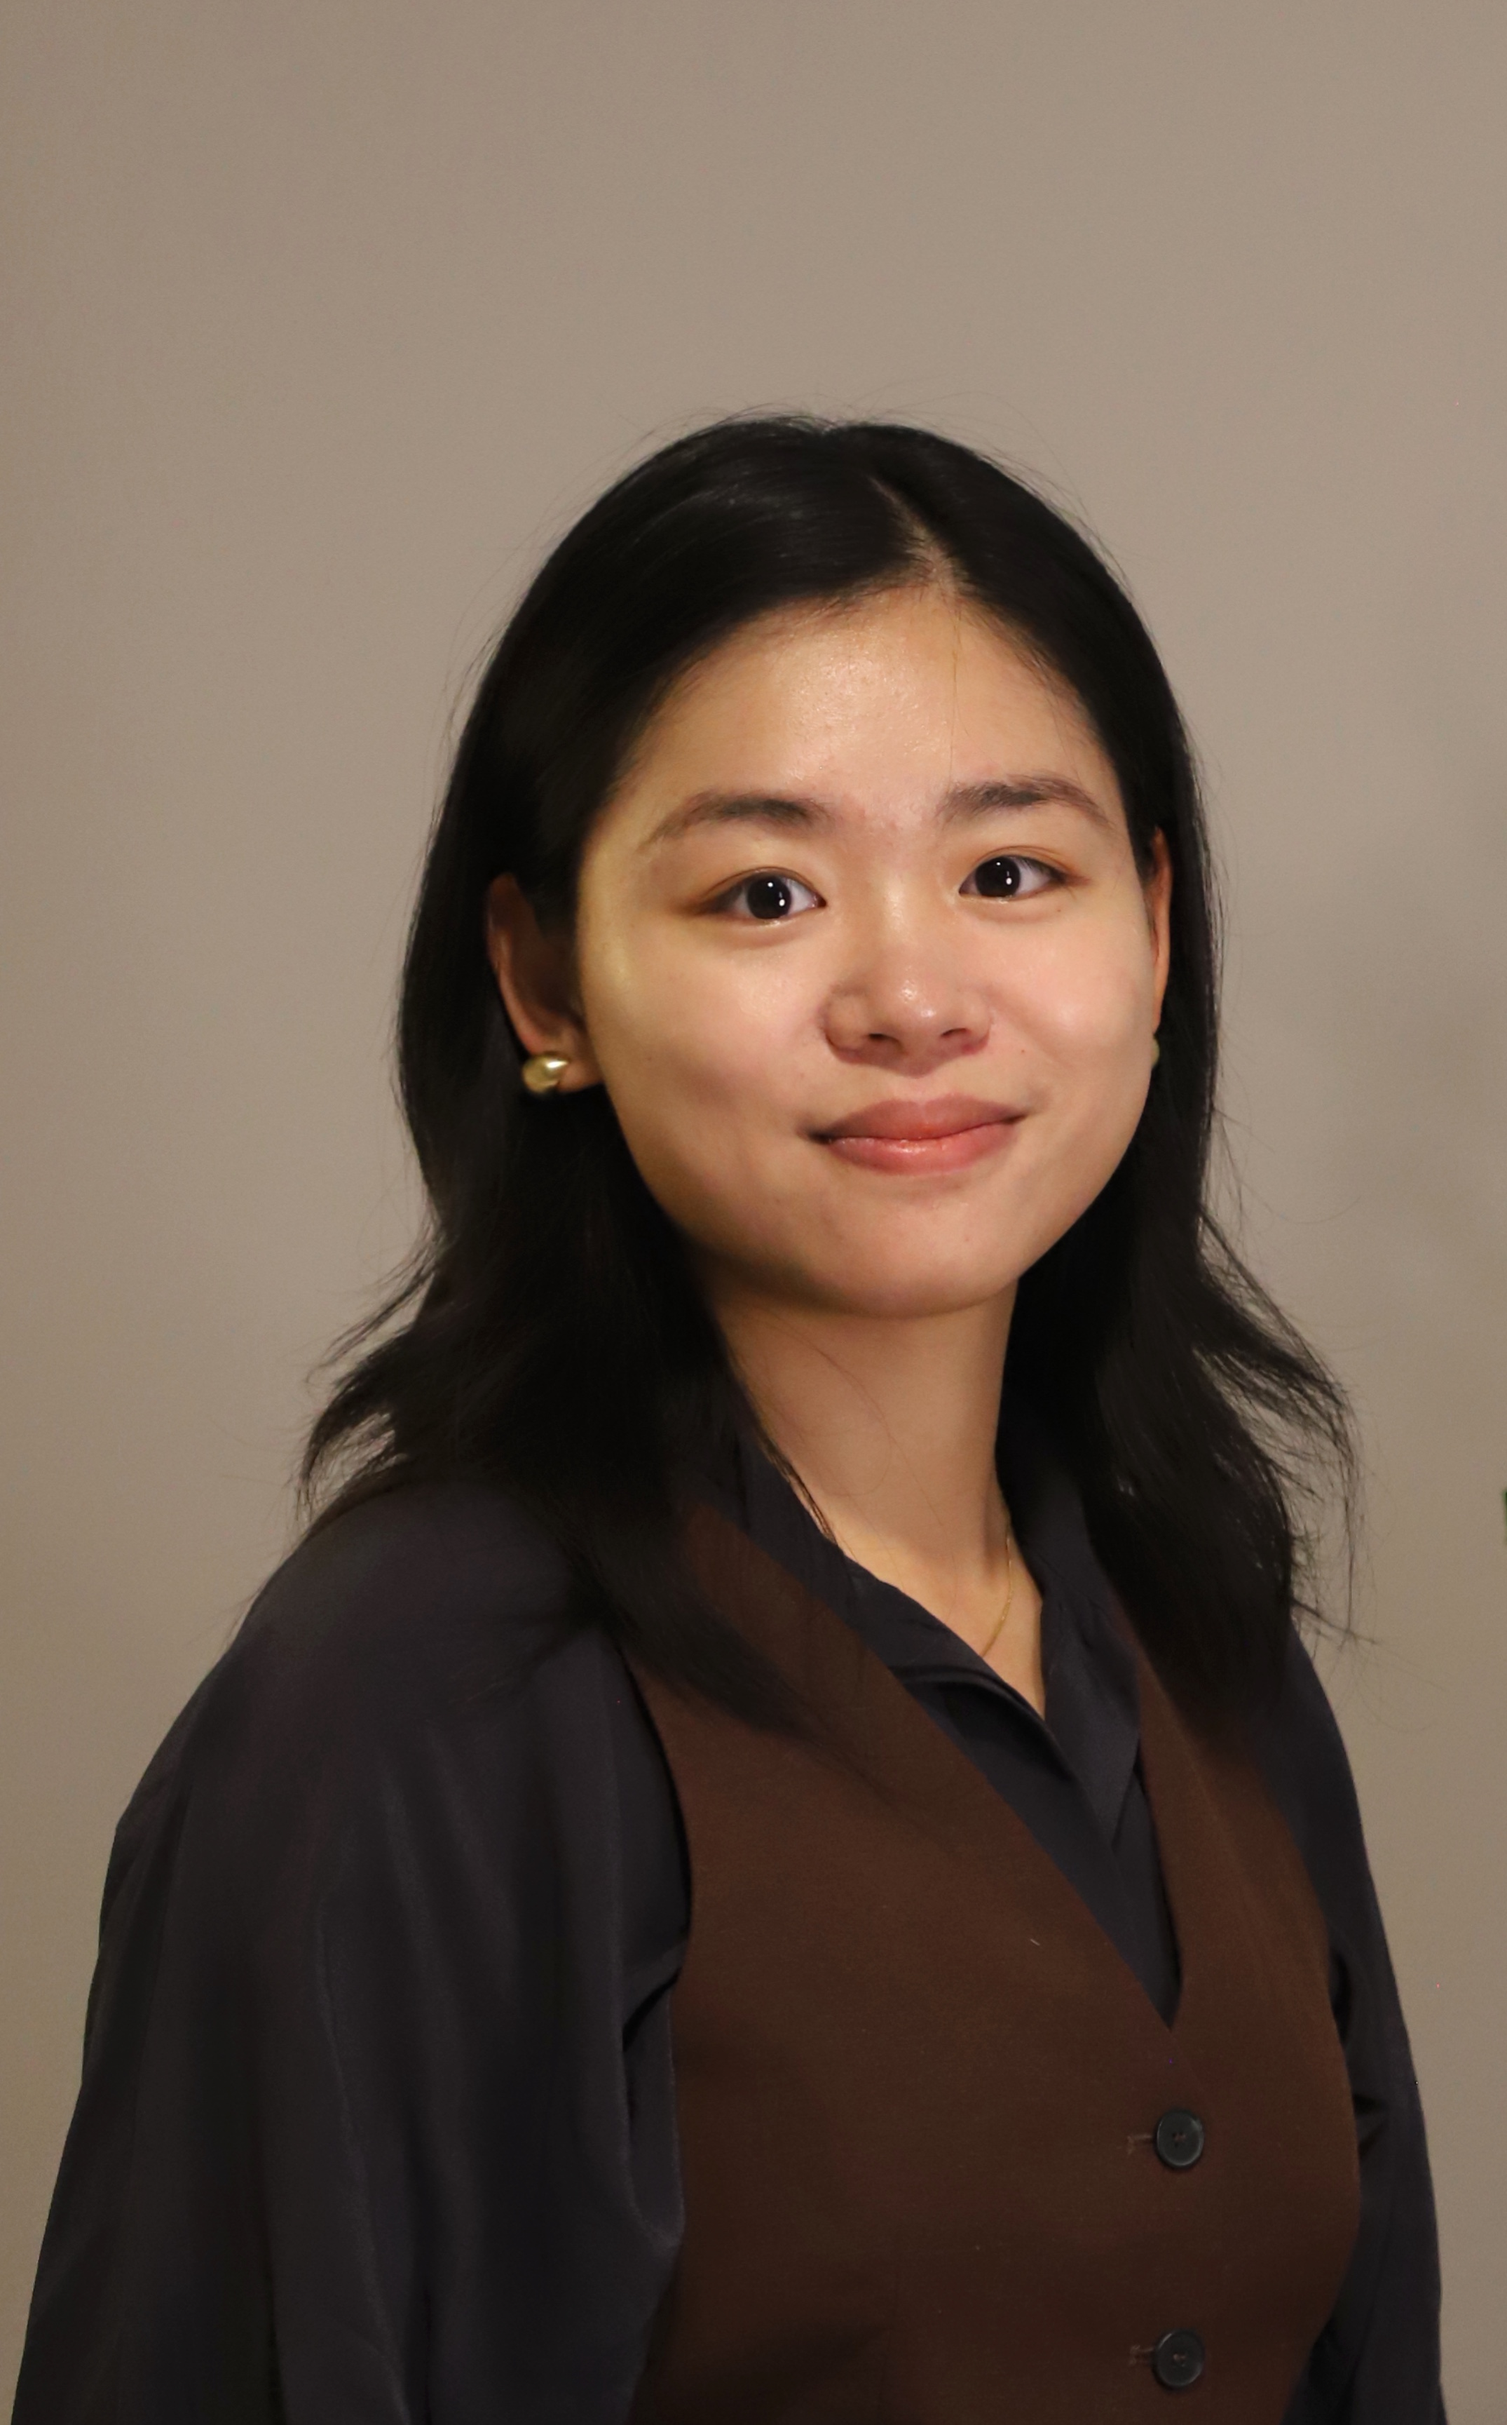
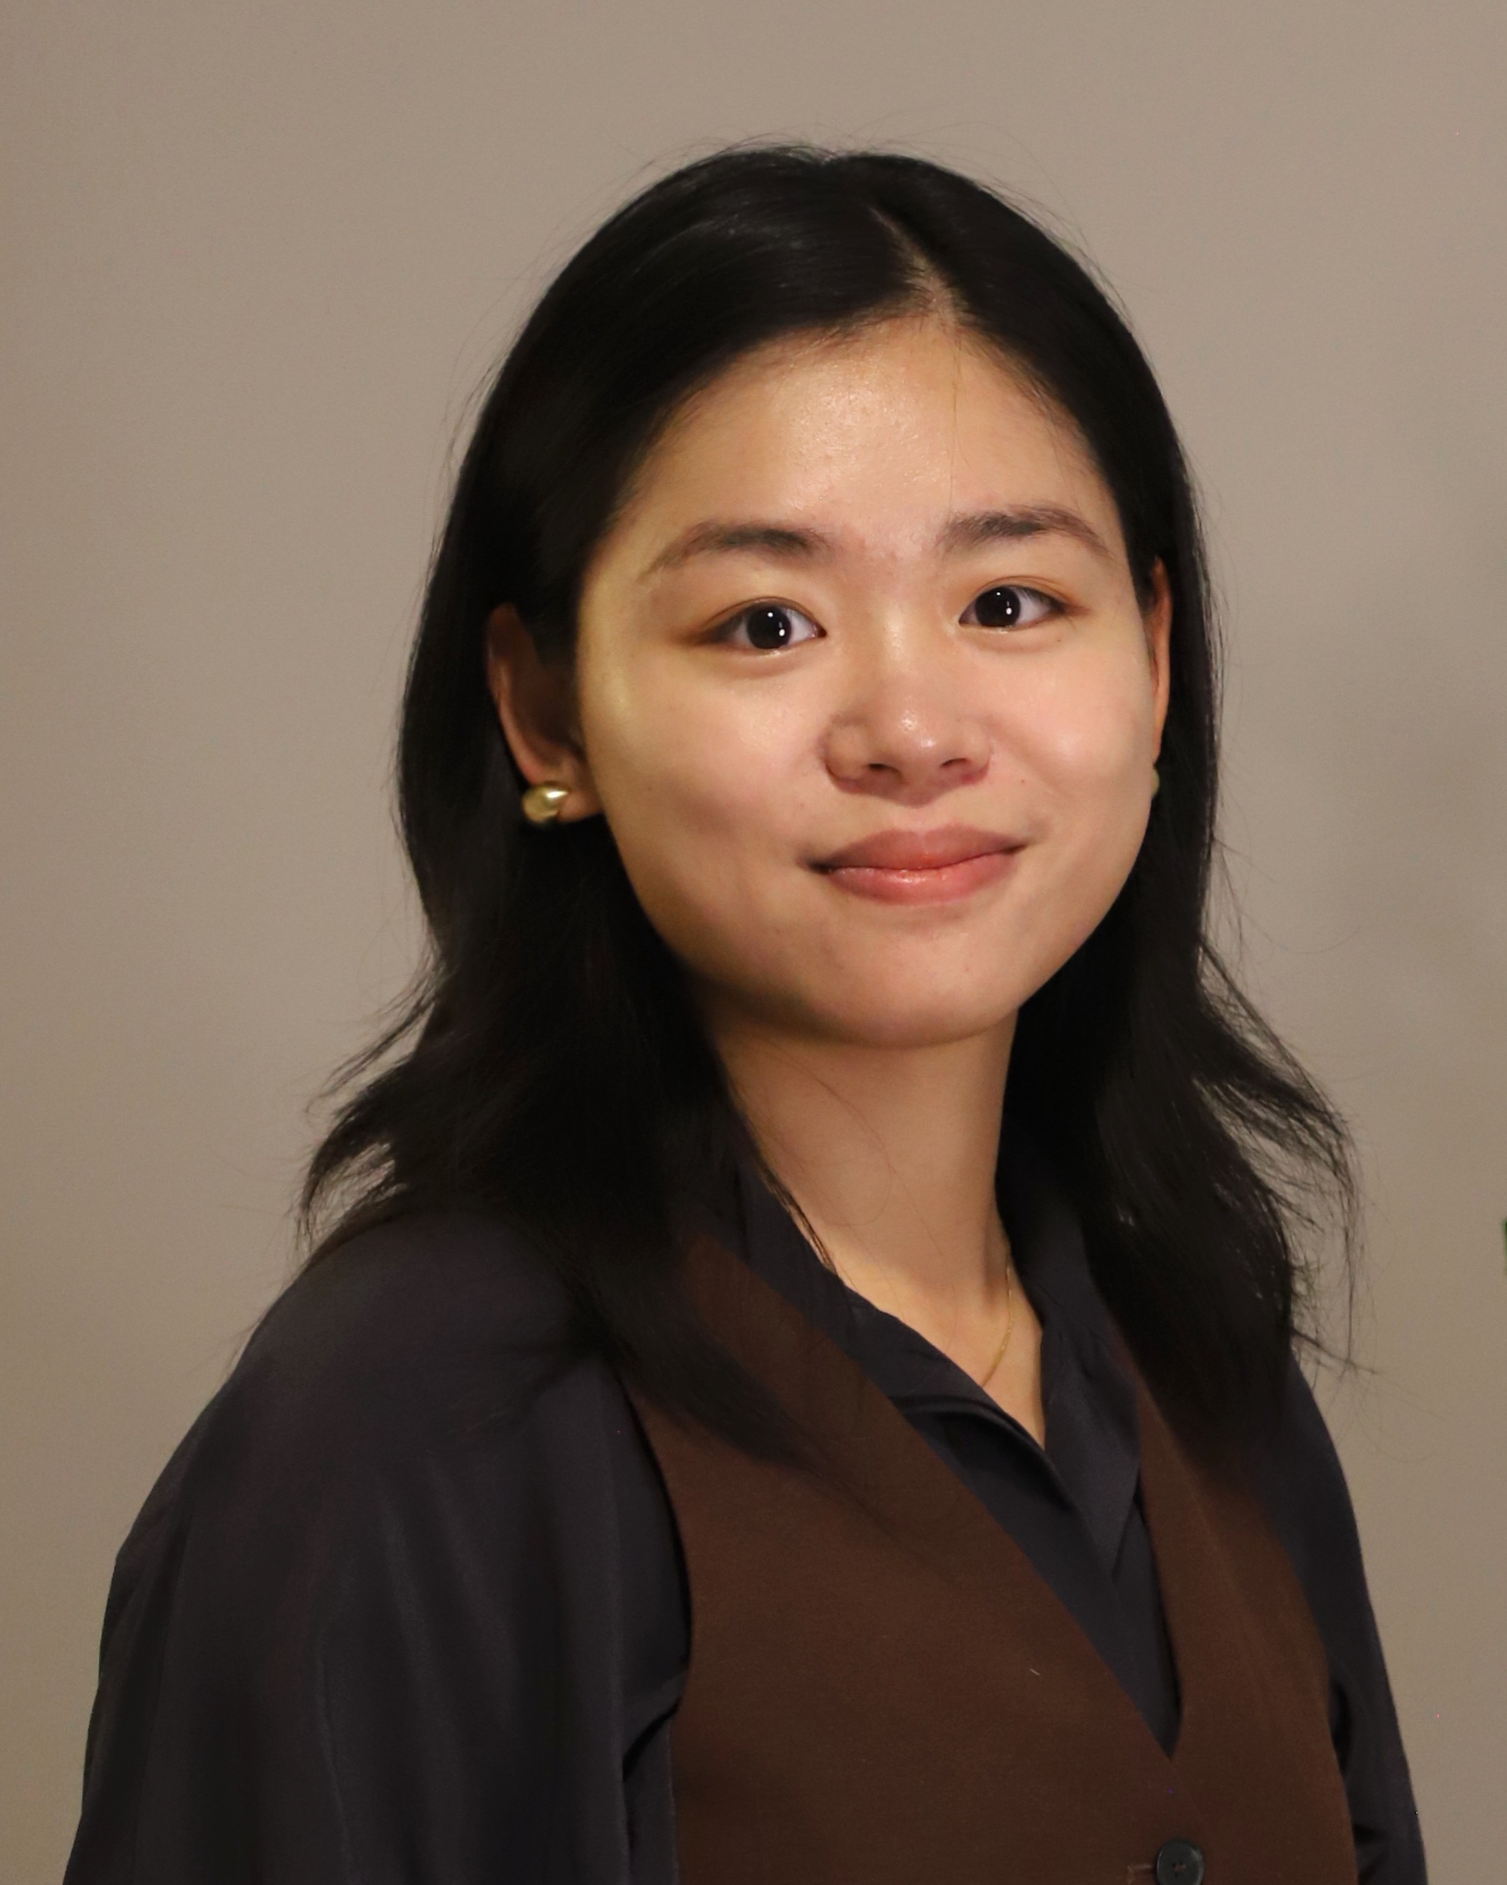
added pet cloudy section

diff --git a/assets/css/style.css b/assets/css/style.css
@@ -272,3 +272,69 @@ a:hover {
     grid-template-columns: 1fr;
   }
 }
+
+.cv-intro {
+  display: flex;
+  align-items: flex-start;
+  justify-content: space-between;
+  gap: 2.5rem;
+  margin-bottom: 2rem;
+}
+
+.cv-intro-text {
+  flex: 1;
+}
+
+.cv-headshot img {
+  width: 220px;
+  max-width: 100%;
+  height: auto;
+  border-radius: 12px;
+  display: block;
+}
+
+@media (max-width: 700px) {
+  .cv-intro {
+    flex-direction: column;
+  }
+
+  .cv-headshot img {
+    width: 180px;
+  }
+}
+
+.cloudy-photo-wrap {
+  position: relative;
+}
+
+.heart-container {
+  position: absolute;
+  inset: 0;
+  pointer-events: none;
+  overflow: hidden;
+}
+
+.floating-heart {
+  position: absolute;
+  left: 50%;
+  bottom: 15%;
+  font-size: 1.7rem;
+  transform: translateX(-50%);
+  animation: float-heart 1.1s ease-out forwards;
+}
+
+@keyframes float-heart {
+  0% {
+    opacity: 0;
+    transform: translate(-50%, 0) scale(0.7);
+  }
+
+  20% {
+    opacity: 1;
+  }
+
+  100% {
+    opacity: 0;
+    transform: translate(-50%, -110px) scale(1.3);
+  }
+}

diff --git a/about.md b/about.md
@@ -58,3 +58,68 @@ Outside of research, I love racket sports (tennis, table tennis, and pickleball)
     <figcaption>NCTTA</figcaption>
   </figure>
 </div>
+<div class="cloudy-card">
+  <div class="cloudy-photo-wrap">
+    <img
+      src="{{ '/assets/img/cloudy.JPEG' | relative_url }}"
+      alt="Cloudy the cat"
+      class="cloudy-photo"
+    >
+
+    <div id="heart-container" class="heart-container"></div>
+  </div>
+
+  <div class="cloudy-content">
+    <p>
+      Cloudy is my professional napper, research supervisor, and occasional keyboard assistant.
+    </p>
+
+    <button id="pet-cloudy" class="pet-button" type="button">
+      ♡ Pet me
+    </button>
+
+    <p id="pet-count" class="pet-count"></p>
+  </div>
+</div>
+<script>
+  let pets = Number(localStorage.getItem("cloudyPets")) || 0;
+
+  const petButton = document.getElementById("pet-cloudy");
+  const petCount = document.getElementById("pet-count");
+  const heartContainer = document.getElementById("heart-container");
+
+  function updatePetCount() {
+    petCount.textContent =
+      pets === 0
+        ? "Cloudy is waiting for pets."
+        : `You have given Cloudy ${pets} ${pets === 1 ? "pet" : "pets"}.`;
+  }
+
+  function makeHeart() {
+    const heart = document.createElement("span");
+    heart.className = "floating-heart";
+    heart.textContent = "♥";
+
+    const randomOffset = Math.random() * 80 - 40;
+    heart.style.marginLeft = `${randomOffset}px`;
+
+    heartContainer.appendChild(heart);
+
+    setTimeout(() => heart.remove(), 1100);
+  }
+
+  updatePetCount();
+
+  petButton.addEventListener("click", function () {
+    pets++;
+    localStorage.setItem("cloudyPets", pets);
+
+    petButton.textContent = "♥ Petted!";
+    updatePetCount();
+    makeHeart();
+
+    setTimeout(() => {
+      petButton.textContent = "♡ Pet me";
+    }, 600);
+  });
+</script>

diff --git a/cv.md b/cv.md
@@ -5,12 +5,24 @@ title: CV
 
 # Curriculum Vitae
 
-This page provides a brief academic overview. For the full version, please download my CV here:
+<div class="cv-intro">
 
-[Download full CV (PDF)]({{ '/assets/pdf/CV_Zhou_Yinuo.pdf' | relative_url }})
+  <div class="cv-intro-text">
+    <p>
+      This page provides a brief academic overview. For the full version, please download my CV here:
+    </p>
 
-<div class="hero-photo">
+    <p>
+      <a href="{{ '/assets/pdf/CV_Zhou_Yinuo.pdf' | relative_url }}">
+        Download full CV (PDF)
+      </a>
+    </p>
+  </div>
+
+  <div class="cv-headshot">
     <img src="{{ '/assets/img/headshot.JPEG' | relative_url }}" alt="Portrait of Yinuo Zhou">
+  </div>
+
 </div>
   
 ## Current Position
